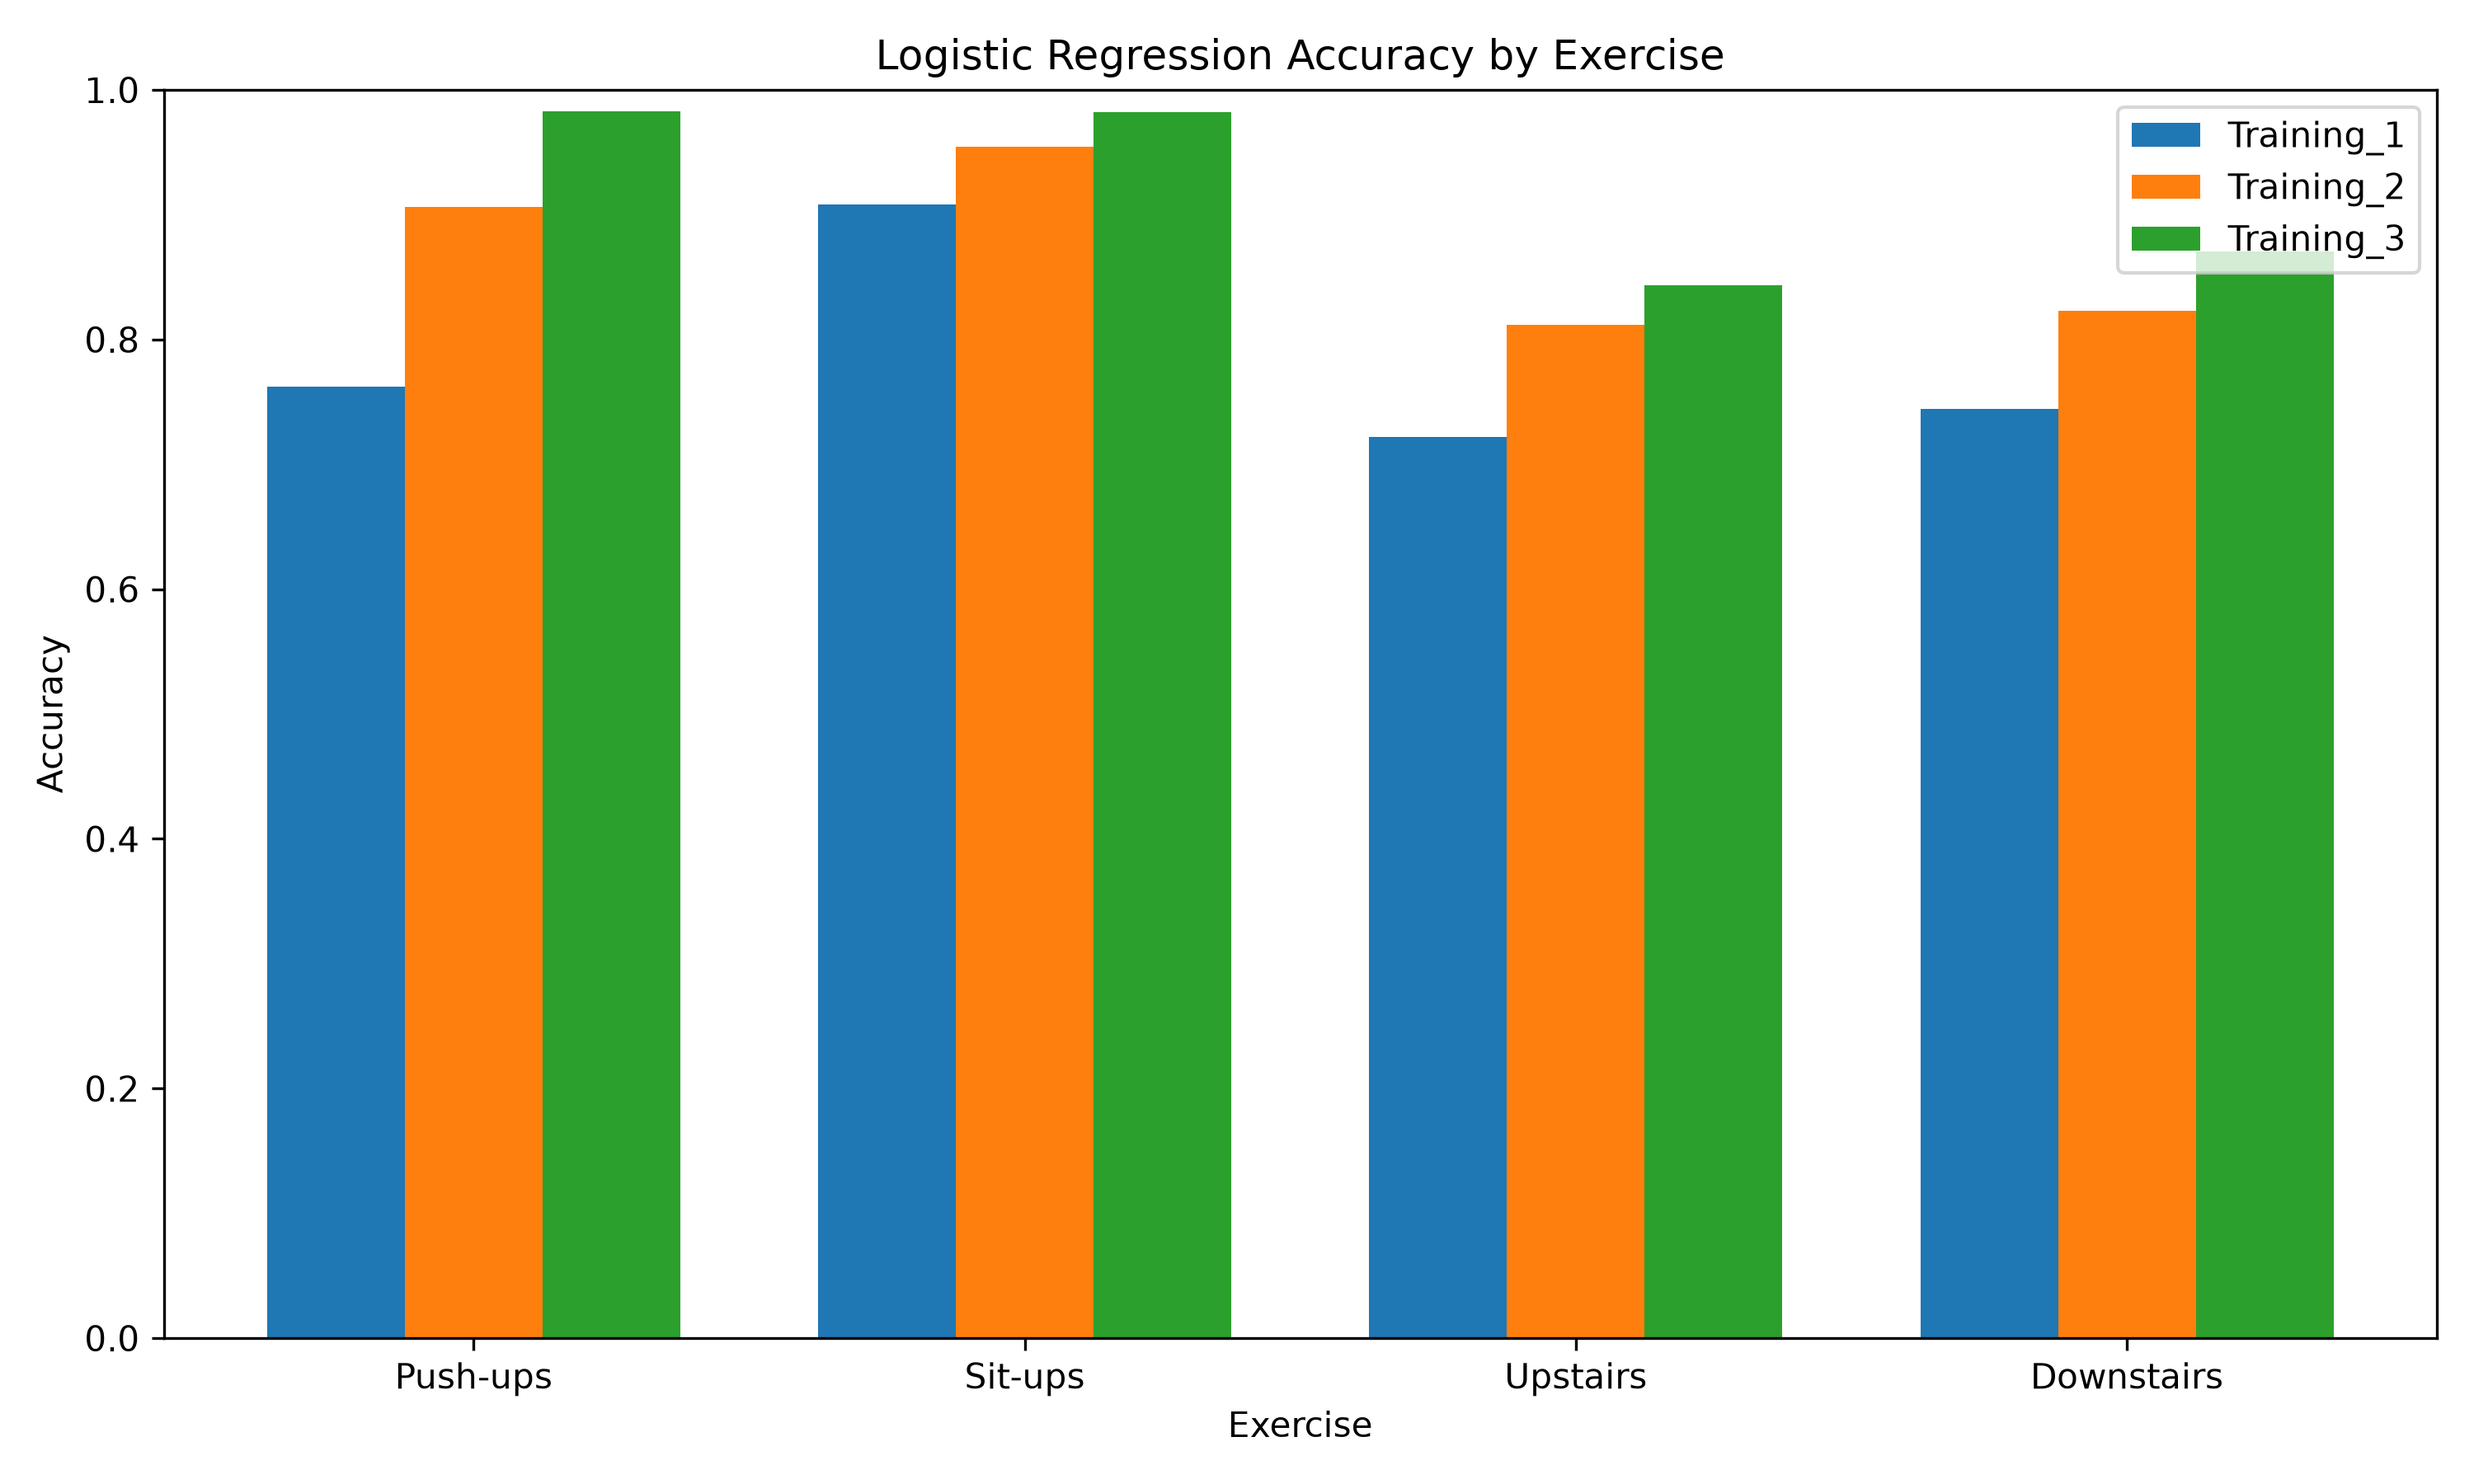
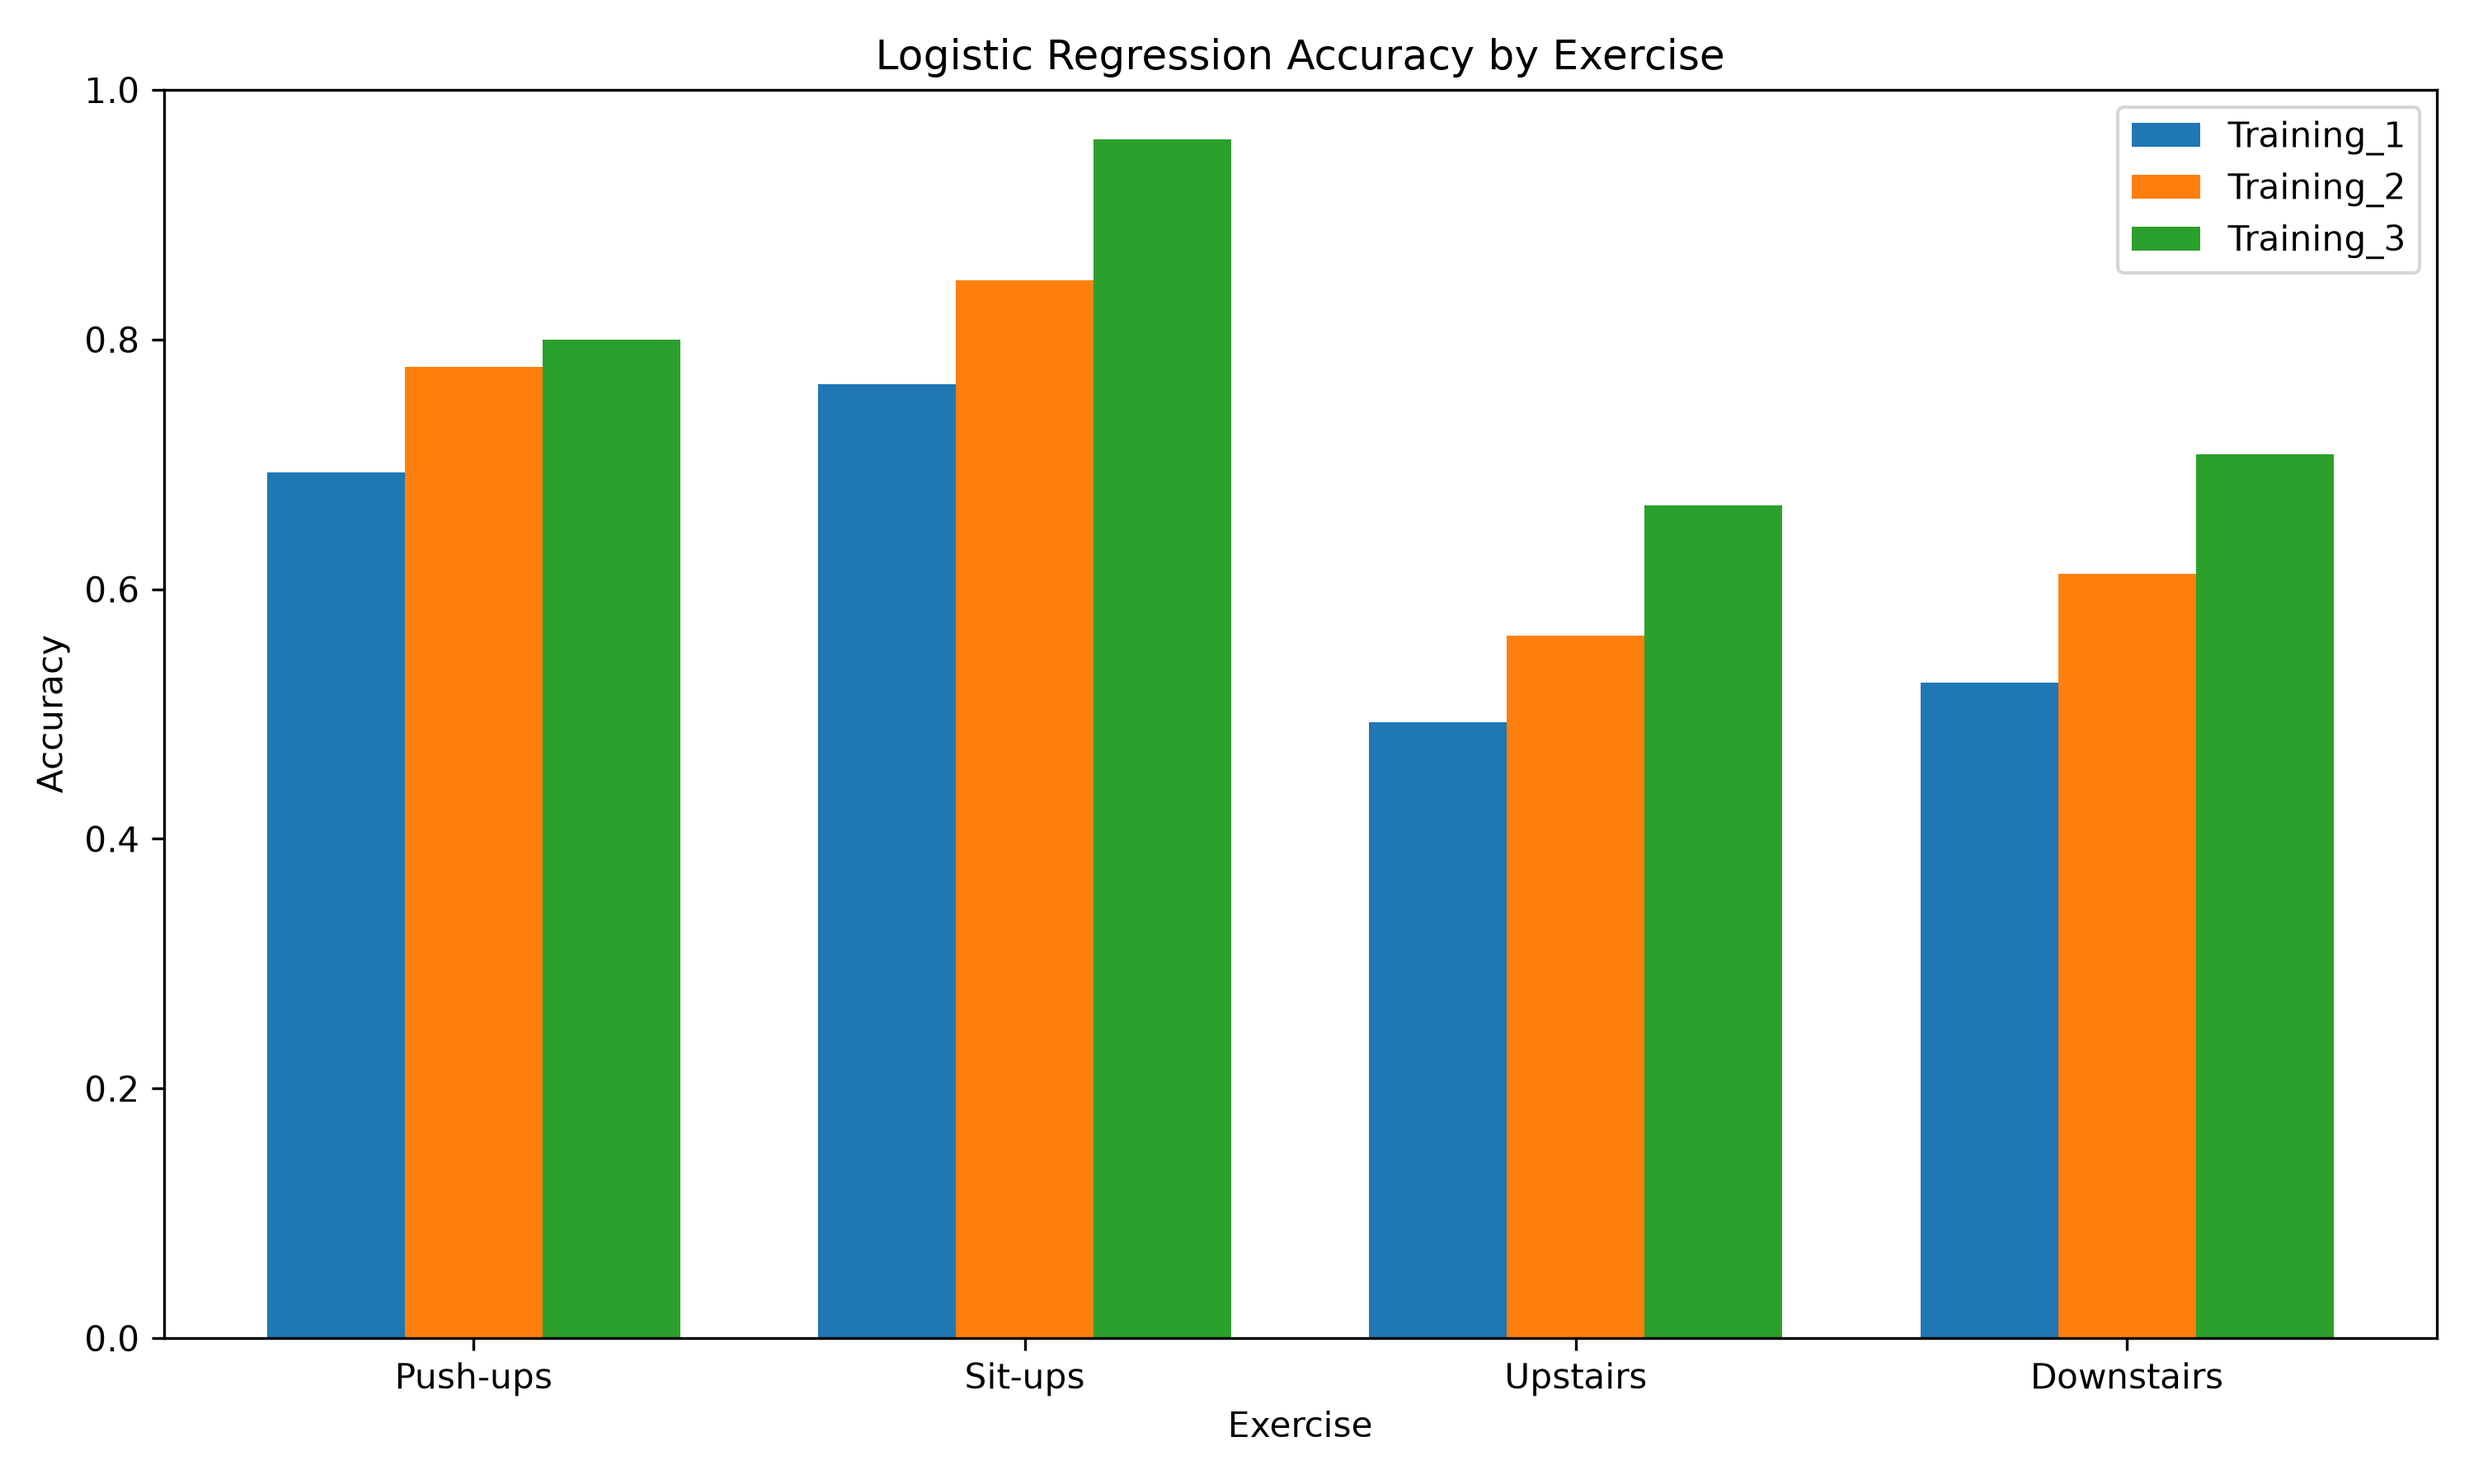
Add files via upload

diff --git a/Logistic_Regression.py b/Logistic_Regression.py
@@ -1,6 +1,5 @@
 ## I acknowledge the use of ChatGPT to help develop this logistic regression script
 # Import libraries for data processing
-from pathlib import Path
 import pandas as pd
 import numpy as np
 import matplotlib.pyplot as plt
@@ -12,6 +11,9 @@ from sklearn.linear_model import LogisticRegression
 from sklearn.pipeline import make_pipeline
 from sklearn.metrics import accuracy_score, classification_report
 
+# Defines the features
+FEATURES = ["acc_x", "acc_y", "acc_z", "gyro_x", "gyro_y", "gyro_z"]
+
 # Define the window size/step size for each training
 EXPERIMENTS = {
     "Training_1": (50, 25),
@@ -19,74 +21,67 @@ EXPERIMENTS = {
     "Training_3": (200, 100)
 }
 
-# Dataset folder names
-ACTIVITIES = {
-    "9.Push-up": "pushups",
-    "10.Sit-up": "situps",
-    "15.Stair-up": "upstairs",
-    "16.Stair-down": "downstairs"
-}
+# Defines the activities
+ACTIVITIES = ["pushups", "situps", "upstairs", "downstairs"]
 
-# Find recordings in dataset
-recordings = []
-
-for path in Path("2.Trimmed_interpolated_data").rglob("*.csv"):
-    for folder, activity in ACTIVITIES.items():
-        if folder in path.parts:
-            recordings.append((path, activity))
-            break
-
-if not recordings:
-    raise ValueError("No KU-HAR recordings found.")
+# load the dataset
+df = pd.read_csv("cleaned_dataset.csv")
+df = df.dropna(subset=FEATURES + ["activity", "recording"])
 
 # Split recordings into training and testing
-train_files = set()
+train_ids, test_ids = [], []
 
-for activity in ACTIVITIES.values():
-    files = [path for path, label in recordings if label == activity]
+for activity, rows in df.groupby("activity"):
+    recordings = rows["recording"].unique()
 
-    if len(files) < 2:
-        raise ValueError(f"Not enough recordings for {activity}")
+    if len(recordings) < 2:
+        raise ValueError(f"Need at least 2 recordings for {activity}")
 
     train, test = train_test_split(
-        files, test_size=0.3, random_state=42
+        recordings, test_size=0.3, random_state=42
     )
 
-    train_files.update(train)
+    train_ids.extend(train)
+    test_ids.extend(test)
 
 results = {}
 
-# Run all three trainings
+# Run each experiment
 for name, (window_size, step_size) in EXPERIMENTS.items():
 
-    # Creates empty lists for training and testing data
-    X_train, X_test, y_train, y_test = [], [], [], []
+    windows = []
 
-    for path, activity in recordings:
+    # Process each recording separately
+    for recording, data in df.groupby("recording"):
+        values = data[FEATURES].to_numpy()
+        activity = data["activity"].iloc[0]
 
-        # Reads the accelerometer and gyroscope data
-        values = pd.read_csv(
-            path, header=None, usecols=[1, 2, 3, 5, 6, 7]
-        ).apply(pd.to_numeric, errors="coerce").dropna().to_numpy()
-
-        # Assign accelerometer and gyroscope data to training or testing
-        X, y = (X_train, y_train) if path in train_files else (X_test, y_test)
-
-        # Divide readings into overlapping windows
+        # Divide sensor readings into overlapping windows
         for start in range(0, len(values) - window_size + 1, step_size):
             window = values[start:start + window_size]
 
-            # Extract features
-            X.append([
+            # Extract features from the windows
+            windows.append([
+                recording, activity,
                 *window.mean(axis=0),
                 *window.std(axis=0),
                 *window.min(axis=0),
                 *window.max(axis=0)
             ])
 
-            y.append(activity)
+    data = pd.DataFrame(windows)
 
-    if not X_train or not X_test:
+    if data.empty:
+        raise ValueError(f"No complete windows for {name}")
+    
+    # Separate windows into training and testing datasets
+    train = data[data[0].isin(train_ids)]
+    test = data[data[0].isin(test_ids)]
+
+    X_train, y_train = train.iloc[:, 2:], train[1]
+    X_test, y_test = test.iloc[:, 2:], test[1]
+
+    if train.empty or test.empty:
         raise ValueError(f"Insufficient data for {name}")
 
     # Creates the Logistic Regression model with feature scaling
@@ -102,30 +97,30 @@ for name, (window_size, step_size) in EXPERIMENTS.items():
 
     # Train the model
     model.fit(X_train, y_train)
-    predictions = model.predict(X_test)
+    y_pred = model.predict(X_test)
+
+    accuracy = accuracy_score(y_test, y_pred)
 
     # Displays results
     print(f"\n{name} | Window: {window_size} | Step: {step_size}")
     print(f"Training samples: {len(X_train)}")
     print(f"Testing samples: {len(X_test)}")
-    print(f"Accuracy: {accuracy_score(y_test, predictions):.4f}")
-    print(classification_report(y_test, predictions, zero_division=0))
+    print(f"Accuracy: {accuracy:.4f}")
+    print(classification_report(y_test, y_pred, zero_division=0))
 
     # Calculate accuracy for each exercise
     results[name] = {}
 
-    y_test = np.array(y_test)
-
-    for activity in ACTIVITIES.values():
+    for activity in ACTIVITIES:
         mask = y_test == activity
 
         results[name][activity] = (
-            accuracy_score(y_test[mask], predictions[mask])
+            accuracy_score(y_test[mask], y_pred[mask])
             if mask.any() else 0
         )
 
 # Compares the accuracy of all three trainings
-labels = list(ACTIVITIES.values())
+labels = ACTIVITIES
 x = np.arange(len(labels))
 width = 0.25
 
@@ -141,7 +136,6 @@ for i, (name, scores) in enumerate(results.items()):
         label=name
     )
 
-
 # Adds the graph title, axis labels and exercise names
 plt.title("Logistic Regression Accuracy by Exercise")
 plt.xlabel("Exercise")
@@ -152,13 +146,12 @@ plt.legend()
 plt.tight_layout()
 
 
-# Save the graph
+# Saves the graph
 plt.savefig("Training.png", dpi=300)
 
-
-# Display the graph if Matplotlib supports it
+# Display the graph, if supported
 if "agg" not in plt.get_backend().lower():
     plt.show()
 
-# Closes the Graph
+# Closes the graph
 plt.close()
